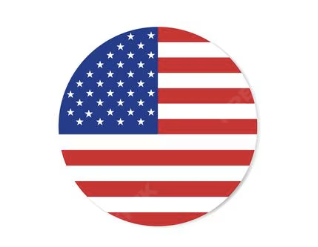
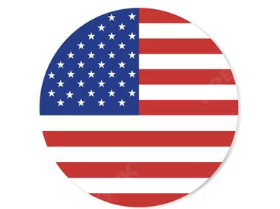
v44: Crop white border from flag image directly

Changed region(s): [[0.1143, 0.0287, 0.8571, 1.0]]

diff --git a/unusual_activity_DAILY_latest.html b/unusual_activity_DAILY_latest.html
@@ -677,31 +677,17 @@
             font-size: 26px;
         }
 
-        /* USA Flag Icon - wrapper clips the white border */
-        .usa-flag-wrapper {
-            width: 20px;
-            height: 20px;
-            border-radius: 50%;
-            overflow: hidden;
-            display: inline-flex;
-            align-items: center;
-            justify-content: center;
-        }
-
+        /* USA Flag Icon */
         .usa-flag-img {
-            width: 40px;
-            height: 40px;
+            width: 22px;
+            height: 22px;
+            border-radius: 50%;
             object-fit: cover;
         }
 
-        .sector-item.center .usa-flag-wrapper {
-            width: 24px;
-            height: 24px;
-        }
-
         .sector-item.center .usa-flag-img {
-            width: 48px;
-            height: 48px;
+            width: 26px;
+            height: 26px;
         }
 
         .zero-dte-icon {
@@ -2584,7 +2570,7 @@
                     <span class="nav-separator">|</span>
 
                     <!-- Trade Date Display - clicking opens calendar modal -->
-                    <span id="tradeDateText" style="font-size: 16px; color: #fff; cursor: pointer;">Tuesday, January 20, 2026 v43</span>
+                    <span id="tradeDateText" style="font-size: 16px; color: #fff; cursor: pointer;">Tuesday, January 20, 2026 v44</span>
 
                     <span class="nav-separator">|</span>
                 </div>
@@ -4079,7 +4065,7 @@
         // Sector icons mapping for 3D carousel
         // Some icons use HTML for custom styling (btc-coin, china-char)
         const SECTOR_ICONS = {
-            'index_usa': '<span class="usa-flag-wrapper"><img src="usa_flag_icon.png" class="usa-flag-img" alt="USA"></span>',
+            'index_usa': '<img src="usa_flag_icon.png" class="usa-flag-img" alt="USA">',
             'index_global': '🌍',
             'index_sector': '📊',
             'index_volatility': '📈',
